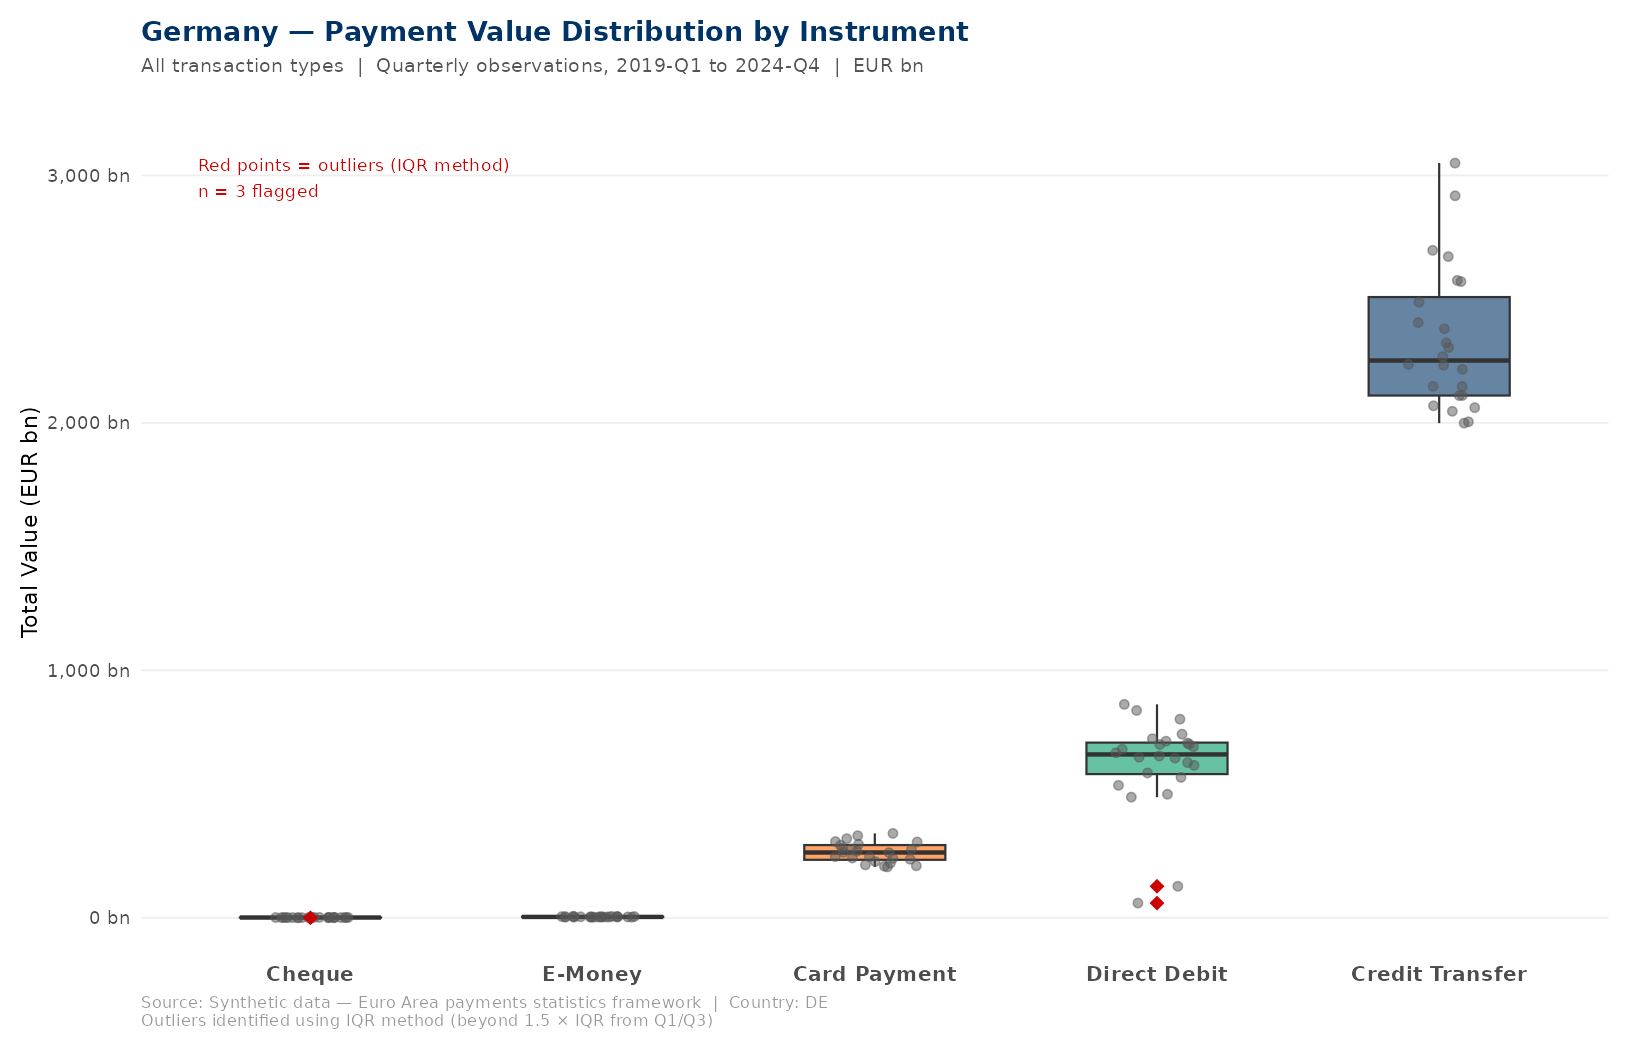
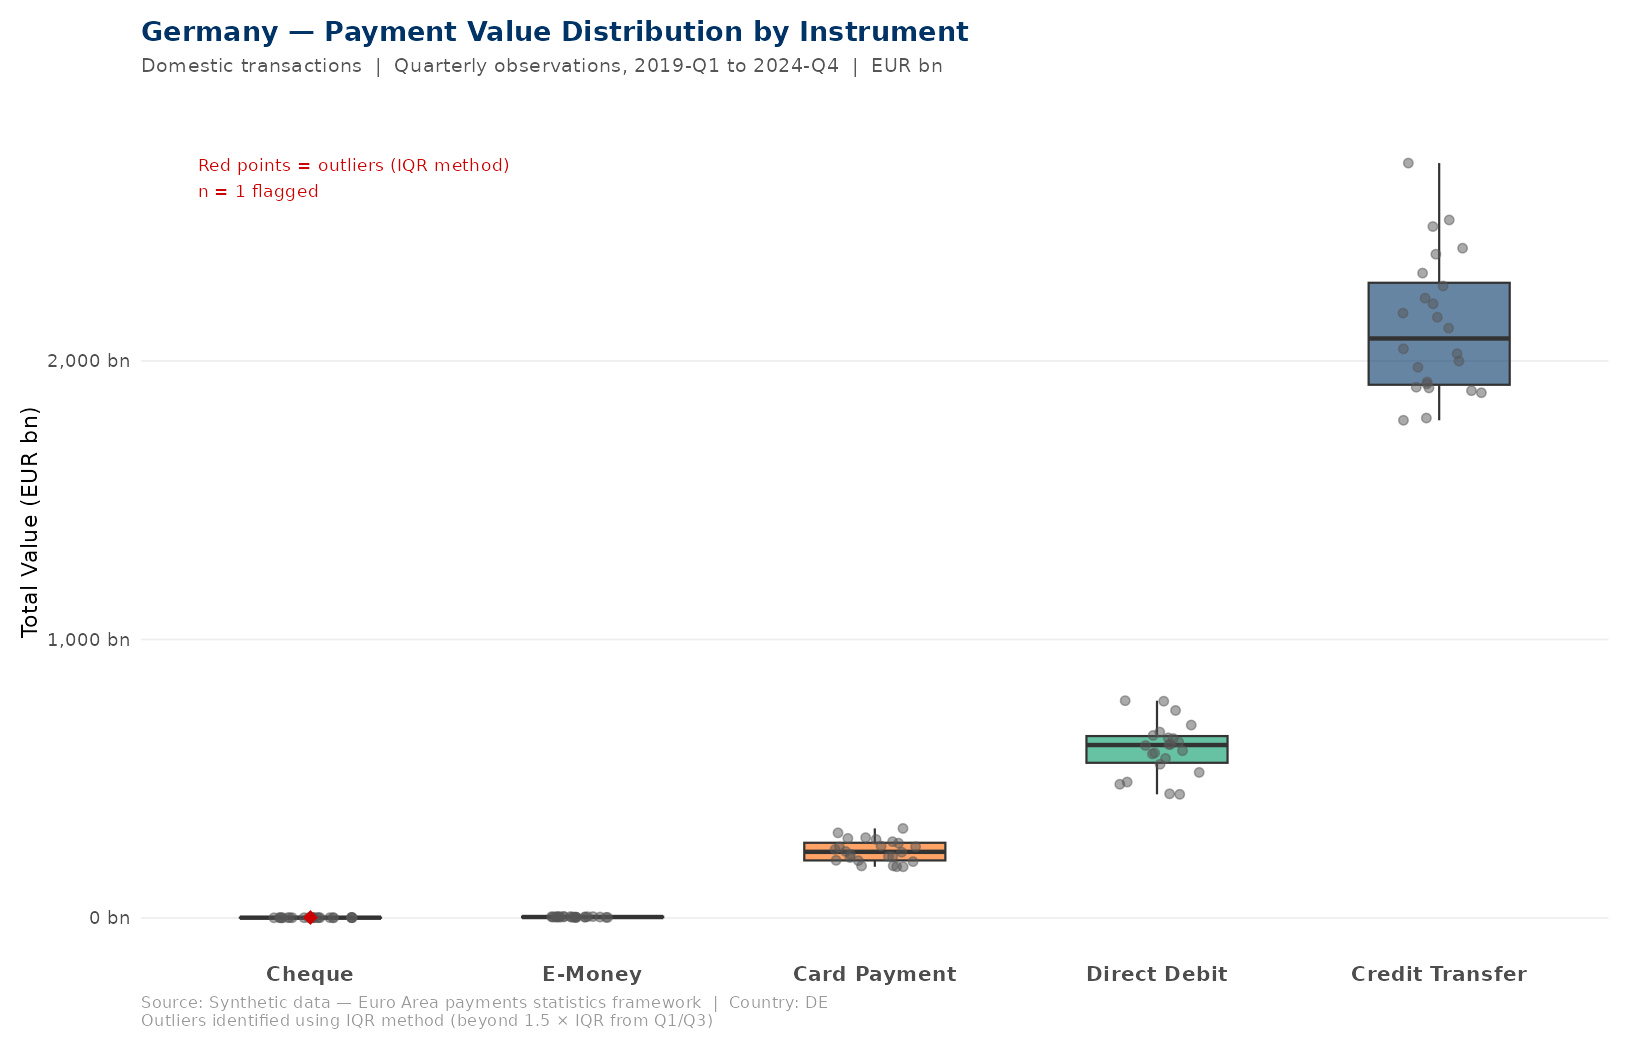
Update README and add latest charts and report

diff --git a/README.md b/README.md
@@ -26,16 +26,10 @@ financial-statistics-pipeline/
 │
 ├── generate_data.py          ← generates synthetic raw datasets
 ├── pipeline.py             ← full end-to-end pipeline (7 steps)
-├── statistical_summary.py       ← overall statistical summary
-├── validation.py            ← standalone data validation checks
-├── queries.sql             ← YoY and QoQ SQL queries
-├── running_total.sql          ← running total by country
 ├── time_series_chart.R         ← quarterly time series visualisation
 ├── outlier_boxplot.R          ← outlier detection boxplot
 ├── payments_statistics_datasets.xlsx  ← raw synthetic dataset
 ├── payments_quarterly_report.xlsx   ← pipeline output report
-├── germany_payments_time_series.jpg  ← time series chart output
-└── germany_outlier_boxplot.jpg     ← boxplot chart output
 ```
 
 ---
@@ -121,7 +115,6 @@ Queries run via Python's built-in `sqlite3` — no external database required.
 
 ## Statistical Summary
 
-Run `statistical_summary.py` for full descriptive statistics:
 
 ```
 Count, Mean, Median, Std Dev, Variance, Min, Max, Q1, Q3, IQR, Skewness, Kurtosis, CV (%)
@@ -155,12 +148,9 @@ python3 pipeline.py
 
 **5. Run statistical summary:**
 ```bash
-python3 statistical_summary.py
 ```
 
-**6. Run standalone data validation:**
 ```bash
-python3 validation.py
 ```
 
 **7. Generate charts (update paths in scripts first):**